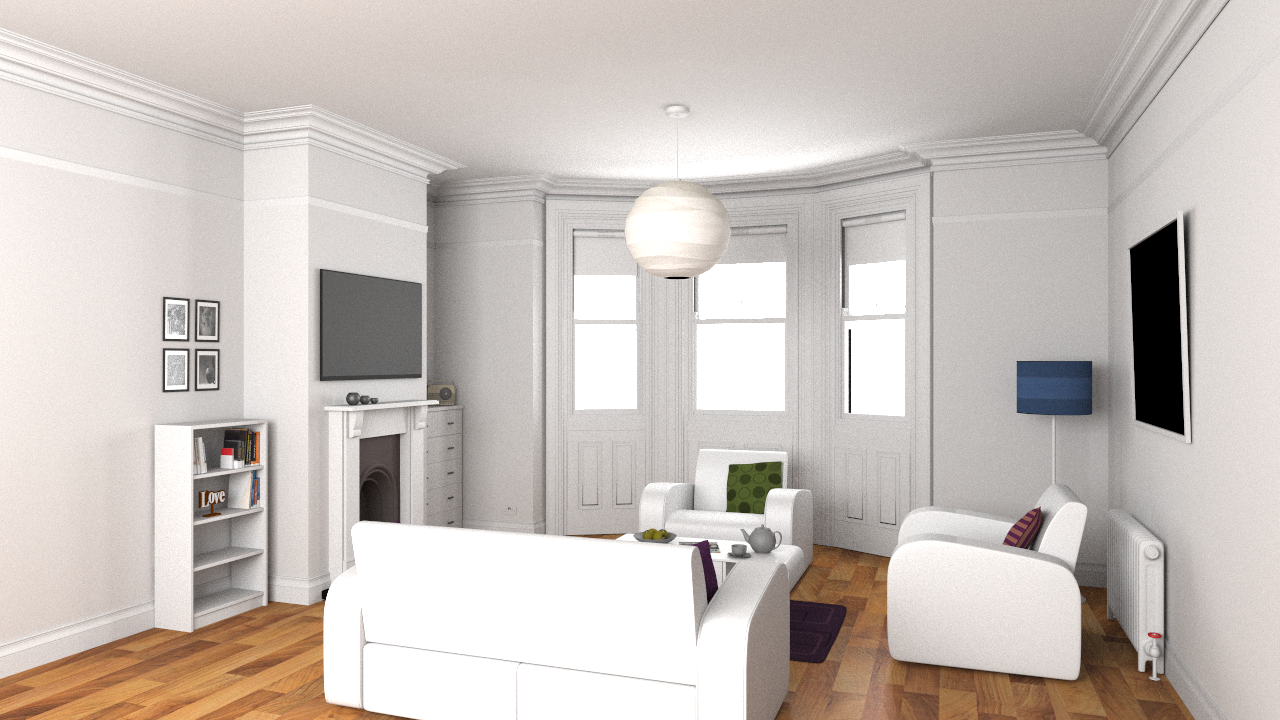
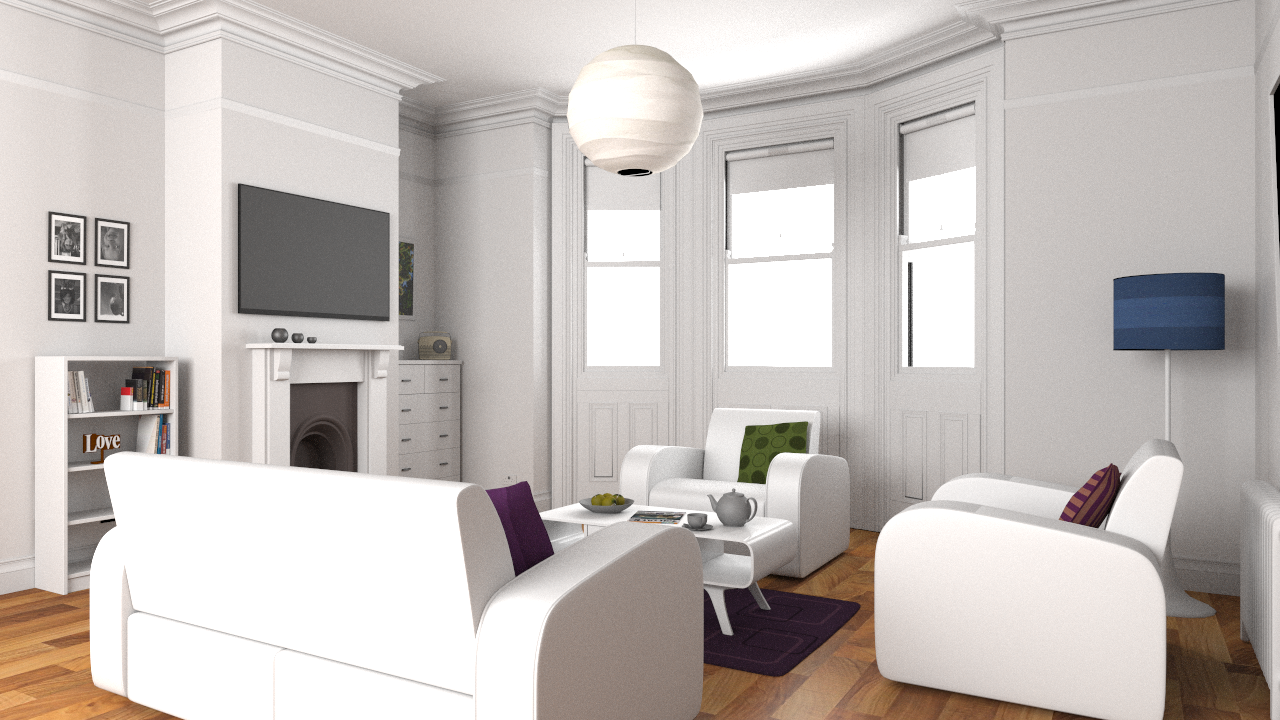
added sobol qmc

diff --git a/src/integrators/bdpt/bdpt.cc b/src/integrators/bdpt/bdpt.cc
@@ -137,6 +137,14 @@ int BDPT::randomWalk(Ray ray, Scene &scene, RenderContext &ctx, Spectrum beta, F
         }
         ScatteringEvent event = makeScatteringEvent(ray, info, ctx.sampler);
         vertex = Vertex::createSurfaceVertex(event, beta, pdfFwd, prev);
+        if(event.getIntersectionInfo()->primitive->light ) {
+            if (mode == TransportMode::importance)
+                break;
+            else {
+                depth++;
+                break;
+            }
+        }
         if (++depth >= maxDepth)
             break;
         auto f = info->bsdf->sample(event);
@@ -196,7 +204,7 @@ int BDPT::generateLightSubpath(Scene &scene, RenderContext &ctx, int maxDepth, V
     auto Le = light->sampleLe(ctx.sampler->nextFloat2D(), ctx.sampler->nextFloat2D(), &ray, &normal, &pdfPos, &pdfDir);
 
     // lightPdf is included in Le
-    auto beta = Spectrum(Le * Vec3f::dot(ray.d, normal) / (pdfDir * pdfPos));
+    auto beta = Spectrum(Le * Vec3f::absDot(ray.d, normal) / (pdfDir * pdfPos));
     if (pdfDir <= 0 || pdfPos <= 0 || Le.isBlack() || beta.isBlack()) { return 0; }
     // TODO: infinite light
     // At present, no rays will be emitted from infinite area lights.
@@ -230,7 +238,6 @@ Float BDPT::MISWeight(Scene &scene,
                       Vertex &sampled) {
     if (s + t == 2)
         return 1;
-
     // Get the necessary vertices
     Vertex *qs = s > 0 ? &lightVertices[s - 1] : nullptr,
             *pt = t > 0 ? &cameraVertices[t - 1] : nullptr,
@@ -272,7 +279,7 @@ Float BDPT::MISWeight(Scene &scene,
     }
 
     // Remaps the delta pdf
-    auto remap0 = [](Float x) { return x != 0 ? x * x : 1; };
+    auto remap0 = [](Float x) { return x != 0 ? x : 1; };
     Float sumRi = 0;
     Float ri = 1;
     for (int i = t - 1; i > 0; i--) {
@@ -315,7 +322,7 @@ BDPT::connectBDPT(Scene &scene, RenderContext &ctx, Vertex *lightVertices, Verte
             return Li;
     } else {
         Vertex &L = lightVertices[s - 1];
-
+        // nightmare
         if (t == 1) {
             if (!L.connectable())return {};
             // Try rasterizing the point
@@ -325,17 +332,18 @@ BDPT::connectBDPT(Scene &scene, RenderContext &ctx, Vertex *lightVertices, Verte
             auto dist = wi.lengthSquared();
             wi /= sqrt(dist);
             Ray primary(ctx.camera->viewpoint, wi);
-            Spectrum beta(1, 1, 1); // TODO: We should use `sampleWe` instead.
+            Spectrum beta = ctx.camera->We(primary); // TODO: We should use `sampleWe` instead.
             Float pdf, _;
-            ctx.camera->pdfWe(primary, &_, &pdf);
+            pdf = dist / Vec3f::absDot(ctx.camera->normal, wi);
             sampled = Vertex::createCameraVertex(primary, ctx.camera, Spectrum(beta / pdf));
             sampled.pdfFwd = pdf;
-            Li = L.beta * L.f(sampled, TransportMode::importance) / dist;
+            Li = L.beta * L.f(sampled, TransportMode::importance) * sampled.beta;
             if (Li.isBlack())return {};
             OccludeTester tester(primary, sqrt(dist));
             if (!tester.visible(scene))return {};
-            Li *= Vec3f::absDot(primary.d, L.Ns());
+            Li *= Vec3f::absDot(primary.d, L.Ns()) * Vec3f::dot(primary.d, ctx.camera->normal);
         } else if (s == 1) {
+            if (!E.connectable())return {};
             Vec3f wi;
             Float pdf;
             VisibilityTester tester;
@@ -343,7 +351,7 @@ BDPT::connectBDPT(Scene &scene, RenderContext &ctx, Vertex *lightVertices, Verte
             auto light = L.light;
             Li = light->sampleLi(ctx.sampler->nextFloat2D(), *E.event.getIntersectionInfo(), &wi, &pdf, &tester);
             if (Li.isBlack() || pdf <= 0)return {};
-            sampled = Vertex::createLightVertex(light, tester.shadowRay, {}, pdf, Spectrum(Li / pdf));
+            sampled = Vertex::createLightVertex(light, tester.shadowRay, L.Ng(), pdf, Spectrum(Li / pdf));
             Li *= E.beta * E.f(sampled, TransportMode::radiance) / pdf * Vec3f::absDot(wi, E.Ns());
             if (Li.isBlack())return {};
             if (!tester.visible(scene))return {};

diff --git a/src/renderer/rendersystem.cc b/src/renderer/rendersystem.cc
@@ -6,8 +6,8 @@
 #include "../utils/jsonparser.hpp"
 #include "../integrators/ao/ao.h"
 #include "../integrators/pathtracer/pathtracer.h"
-#include "../integrators/bdpt/bdpt.h"
-#include "../integrators/mmlt/mmlt.h"
+//#include "../integrators/bdpt/bdpt.h"
+//#include "../integrators/mmlt/mmlt.h"
 
 using namespace Miyuki;
 using namespace Miyuki::Json;
@@ -147,11 +147,11 @@ void RenderSystem::readDescription(const std::string &filename) {
                         integrator = std::make_unique<PathTracer>();
                     } else if (integratorName == "ambient-occlusion" || integratorName == "ao") {
                         integrator = std::make_unique<AOIntegrator>();
-                    } else if (integratorName == "bdpt") {
+                    } /*else if (integratorName == "bdpt") {
                         integrator = std::make_unique<BDPT>();
                     } else if (integratorName == "mmlt" || integratorName == "mlt") {
                         integrator = std::make_unique<MultiplexedMLT>();
-                    } else {
+                    } */else {
                         fmt::print(stderr, "Unrecognized integrator: {}\n", integratorName);
                     }
                 }
@@ -250,9 +250,9 @@ void RenderSystem::readDescription(const std::string &filename) {
         readLights();
     });
     if (!integrator) {
-        fmt::print("Using bdpt for default settings\n");
-        integratorName = "bdpt";
-        integrator = std::make_unique<BDPT>();
+        fmt::print("Using pt for default settings\n");
+        integratorName = "pt";
+        integrator = std::make_unique<PathTracer>();
     }
     scene.prepare();
 

diff --git a/src/cameras/camera.cc b/src/cameras/camera.cc
@@ -61,6 +61,13 @@ void Camera::initTransformMatrix() {
             {0,  0,  1,  0}
     };
     perspectiveMatrix = Matrix4x4(m);
+    normal = Vec3f{0, 0, 1};
+    normal.w() = 1;
+    normal = matrix.mult(normal);
+    normal.normalize();
+    // 1 / z0^2 = A / A'
+    // A = A' / z0^2
+    A = 2 * ((2.0f * filmDimension.x()) / filmDimension.y()) / (z0 * z0);
 }
 
 void Camera::pdfWe(const Ray &ray, Float *pdfPos, Float *pdfDir) const {
@@ -81,11 +88,30 @@ void Camera::pdfWe(const Ray &ray, Float *pdfPos, Float *pdfDir) const {
         return;
     }
     Float lensArea = 1;
-    Float A = 2 * ((2.0f * filmDimension.x()) / filmDimension.y());
     *pdfPos = 1 / lensArea;
     auto cosT2 = cosT * cosT;
-    *pdfDir = 1.0f / (cosT * cosT2);
+    *pdfDir = 1.0f / (A *  cosT * cosT2);
 
+}
+
+Spectrum Camera::We(const Ray &ray) {
+    auto rd = ray.d;
+    rd.w() = 1;
+    rd = invMatrix.mult(rd);
+    rd.normalize();
+    auto cosT = Vec3f::dot(rd, Vec3f(0, 0, 1));
+    if (cosT < 0) {
+        return {};
+    }
+    auto z0 = (Float) (2.0 / tan(fov / 2));
+    Point2f raster(rd.x() / rd.z() * z0, rd.y() / rd.z() * z0);
+    // check if out of bound
+    if (fabs(raster.x()) > (float) filmDimension.x() / filmDimension.y() || fabs(raster.y()) > 1.0f) {
+        return {};
+    }
+    auto cosT2 = cosT * cosT;
+    auto w = 1.0f / (A * cosT2 * cosT2);
+    return {w, w, w};
 }
 
 bool Camera::rasterize(const Vec3f &p, Point2i *rasterPos) const {
@@ -107,3 +133,4 @@ bool Camera::rasterize(const Vec3f &p, Point2i *rasterPos) const {
     *rasterPos = {x, y};
     return true;
 }
+

diff --git a/src/integrators/integrator.cc b/src/integrators/integrator.cc
@@ -28,15 +28,14 @@ Spectrum Integrator::importanceSampleOneLight(Scene &scene,
         VisibilityTester tester;
         Float lightPdf = 0, scatteringPdf = 0;
         auto Li = light->sampleLi(ctx.sampler->nextFloat2D(), *event.getIntersectionInfo(), &wi, &lightPdf, &tester);
-        bool occlude = Vec3f::dot(wi, event.getIntersectionInfo()->Ng) < 0;
         scatteringEvent.wiW = wi;
         scatteringEvent.wi = scatteringEvent.worldToLocal(scatteringEvent.wiW);
         // sample light source
         if (lightPdf > 0 && !Li.isBlack()) {
             Spectrum f;
-            f = bsdf->eval(scatteringEvent) * Vec3f::absDot(wi, event.getIntersectionInfo()->normal);
+            f = bsdf->eval(scatteringEvent) * Vec3f::absDot(wi, event.Ns);
             scatteringPdf = bsdf->pdf(event.wo, scatteringEvent.wi, bsdfFlags);
-            if (!f.isBlack() && !occlude && tester.visible(scene)) {
+            if (!f.isBlack() && tester.visible(scene)) {
                 if (light->isDeltaLight()) {
                     Ld += f * Li / lightPdf;
                 } else {
@@ -55,7 +54,7 @@ Spectrum Integrator::importanceSampleOneLight(Scene &scene,
         Float scatteringPdf = scatteringEvent.pdf;
         Vec3f wi = scatteringEvent.wiW;
         Float lightPdf = 0;
-        f *= Vec3f::dot(wi, event.getIntersectionInfo()->normal);
+        f *= Vec3f::dot(wi, event.Ns);
         sampledSpecular = ((int) event.sampledType & (int) BSDFType::specular) != 0;
         if (!f.isBlack() && scatteringPdf > 0) {
             Float weight;

diff --git a/src/samplers/sobol.cc b/src/samplers/sobol.cc
@@ -6,9 +6,24 @@
 #include "../../thirdparty/sobol/sobol.hpp"
 
 using namespace Miyuki;
+static Float *sobolMatrix = nullptr;
+static int sobolDimenson = -1;
+static int N = 1024 * 1024;
+
+void init(int dim) {
+    if (dim != sobolDimenson) {
+        fmt::print("Generating sobol matrix\n");
+        delete[] sobolMatrix;
+        sobolDimenson = dim;
+        sobolMatrix = i4_sobol_generate(sobolDimenson, N, rand() % (65535));
+    }
+}
 
 Float SobolSampler::nextFloat() {
-    return randFloat();
+    if(sobolIndex >= N)
+        sobolIndex = 0;
+    int idx = sobolIndex * sobolDimenson + dimIndex++;
+    return sobolMatrix[idx];
 }
 
 int32_t SobolSampler::nextInt() {
@@ -16,7 +31,7 @@ int32_t SobolSampler::nextInt() {
 }
 
 Float SobolSampler::nextFloat(Seed *seed) {
-    return erand48(seed->getPtr());
+    return  nextFloat();
 }
 
 int32_t SobolSampler::nextInt(Seed *seed) {
@@ -24,11 +39,18 @@ int32_t SobolSampler::nextInt(Seed *seed) {
 }
 
 Point2f SobolSampler::nextFloat2D() {
-    Float v[2];
-    i4_sobol(2, &sobolIndex, v);
-    return {v[0], v[1]};
+    return {nextFloat(), nextFloat()};
 }
 
-SobolSampler::SobolSampler(Seed *s) : Sampler(s) {
-    sobolIndex = randInt() % (1024);
+SobolSampler::SobolSampler(Seed *s, int dim) : Sampler(s), dim(dim) {
+    sobolIndex = randInt() % N;
+    init(dim);
+}
+
+static std::mutex mutex;
+
+void SobolSampler::start() {
+    sobolIndex++;
+    dimIndex = 0;
+
 }

diff --git a/src/cameras/camera.h b/src/cameras/camera.h
@@ -7,6 +7,7 @@
 
 #include "../math/geometry.h"
 #include "../math/transform.h"
+#include "../core/spectrum.h"
 
 namespace Miyuki {
     class Sampler;
@@ -16,12 +17,13 @@ namespace Miyuki {
     class Camera {
         Matrix4x4 matrix, invMatrix;
         Matrix4x4 perspectiveMatrix;
+        Float A;
     public:
         Vec3f viewpoint;
         Vec3f direction;
         double fov;
         Point2i filmDimension;
-
+        Vec3f normal;
         void moveTo(const Vec3f &pos) { viewpoint = pos; }
 
         void rotateTo(const Vec3f &dir) {
@@ -42,7 +44,7 @@ namespace Miyuki {
         Float generatePrimaryRay(Sampler &sampler, const Point2i &raster, Ray *ray);
 
         void pdfWe(const Ray &ray, Float *pdfPos, Float *pdfDir) const;
-
+        Spectrum We(const Ray& ray);
         bool rasterize(const Vec3f &p, Point2i *raster) const;
 
     };

diff --git a/src/integrators/bdpt/bdpt.h b/src/integrators/bdpt/bdpt.h
@@ -67,7 +67,7 @@ namespace Miyuki {
             if (type == lightVertex)
                 return lightNormal;
             else if (type == cameraVertex) {
-                return {};
+                return primary.d;
             } else
                 return event.Ng();
         }
@@ -76,7 +76,7 @@ namespace Miyuki {
             if (type == lightVertex)
                 return lightNormal;
             else if (type == cameraVertex) {
-                return {};
+                return primary.d;
             } else
                 return event.Ns;
         }

diff --git a/src/core/scene.cc b/src/core/scene.cc
@@ -213,7 +213,7 @@ void Scene::useSampler(Option::SamplerType samplerType) {
         if (samplerType == Option::independent) {
             s = ARENA_ALLOC(samplerArena, RandomSampler)(&seeds[i]);
         } else if (samplerType == Option::sobol) {
-            s = ARENA_ALLOC(samplerArena, SobolSampler)(&seeds[i]);
+            s = ARENA_ALLOC(samplerArena, SobolSampler)(&seeds[i],option.maxDepth * (8) + 2);
         } else {
             CHECK(samplerType == Option::stratified);
             s = ARENA_ALLOC(samplerArena, StratifiedSampler)(&seeds[i]);

diff --git a/src/samplers/sobol.h b/src/samplers/sobol.h
@@ -9,8 +9,10 @@
 namespace Miyuki{
     class SobolSampler : public Sampler{
         int sobolIndex;
+        int dim;
+        int dimIndex;
     public:
-        SobolSampler(Seed * s);
+        SobolSampler(Seed * s, int dim);
         Float nextFloat() override;
 
         int32_t nextInt() override;
@@ -18,6 +20,8 @@ namespace Miyuki{
         Float nextFloat(Seed *seed) override;
 
         int32_t nextInt(Seed *seed) override;
+
+        void start() override;
 
         Point2f nextFloat2D() override;
     };

diff --git a/src/integrators/pathtracer/pathtracer.cc b/src/integrators/pathtracer/pathtracer.cc
@@ -79,7 +79,7 @@ Spectrum PathTracer::render(const Point2i &, RenderContext &ctx, Scene &scene) {
         specular = ((int) event.sampledType & (int) BSDFType::specular) != 0;
 
         L += beta * direct;
-        beta *= f * Vec3f::absDot(event.wiW, info.normal) / event.pdf;
+        beta *= f * Vec3f::absDot(event.wiW, event.Ns) / event.pdf;
         ray = event.spawnRay(event.wiW);
         if (depth > scene.option.minDepth) {
             if (ctx.sampler->nextFloat() < beta.max()) {
